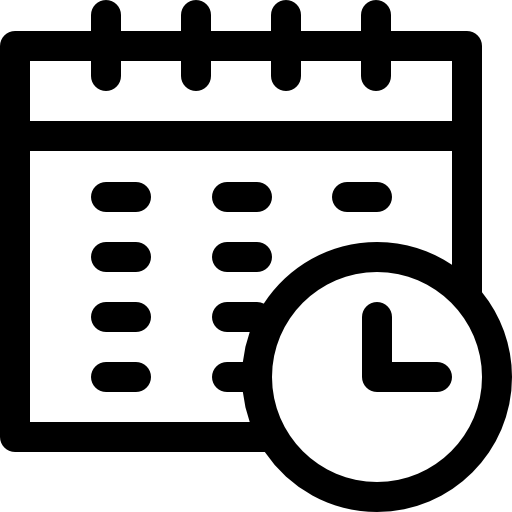
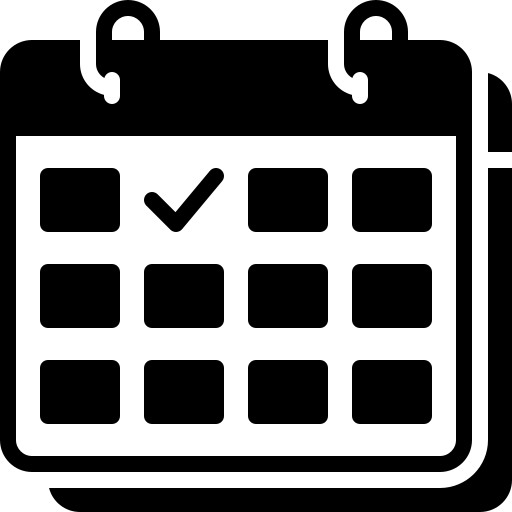
Poprawienie responsywności side menu oraz zamiana grafiki terminarza

diff --git a/src/TopBarAndSideMenu.css b/src/TopBarAndSideMenu.css
@@ -638,4 +638,28 @@ a {
         width: 40px;
         height: 40px;
     }
+
+    .on-click-menu{
+        width: 100%;
+    }
+
+    .on-click-menu-bottom-bar{
+        width: 90%;
+        margin-left: 5%;
+    }
+
+    .on-click-menu-top-bar{
+        width: 90%;
+        margin-left: 5%;
+    }
+
+    .on-click-menu-middle-content{
+        width: 70%;
+        margin-left: 15%;
+    }
+
+    .on-click-menu-middle-content-item-text > p{
+        font-size: 35px;
+        line-height: 65px;
+    }
 }
